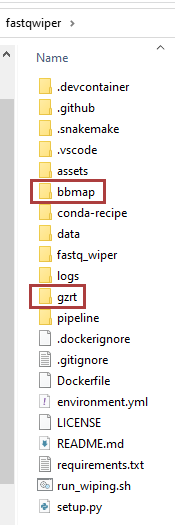
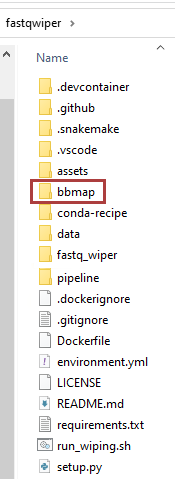
Fixed README.md

Changed region(s): [[0.0, 0.0, 1.0, 0.9937], [0.0, 0.9061, 0.0857, 1.0], [0.0, 0.1754, 0.0857, 0.2046]]

diff --git a/README.md b/README.md
@@ -17,9 +17,9 @@
 
 
 ## USAGE
-- <u>**Case 1**</u>. You have one or a couple (R1&R2) of **computer readable** FASTQ files which contain pesky, unformatted, uncompliant lines: Use <u>FastWiper only</u> to clean them;
-- <u>**Case 2**</u>. You have one or a couple (R1&R2) of **computer readable** FASTQ files that you want to drop unpaired reads from or fix reads interleaving: Use the <u>FastqWiper's Snakemake workflows</u>;
-- <u>**Case 3**</u>. You have one `fastq.gz` file or a couple (R1&R2) of `fastq.gz` files which are corrupted and you want to recover healthy reads and reformat them: Use the <u>FastqWiper's Snakemake workflows</u>;
+- **Case 1**. You have one or a couple (R1&R2) of **computer readable** FASTQ files which contain pesky, unformatted, uncompliant lines: Use *FastWiper* to clean them;
+- **Case 2**. You have one or a couple (R1&R2) of **computer readable** FASTQ files that you want to drop unpaired reads from or fix reads interleaving: Use the FastqWiper's *Snakemake workflows*;
+- **Case 3**. You have one `fastq.gz` file or a couple (R1&R2) of `fastq.gz` files which are corrupted and you want to recover healthy reads and reformat them: Use the FastqWiper's *Snakemake workflows*;
 
 
 ## Installation
@@ -112,7 +112,7 @@ cd fastqwiper
 ```
 
 It contains, in particular, a folder `data` containing the fastq files to be processed, a folder `pipeline` containing the released pipelines and a folder `fastq_wiper` with the source files of `FastqWiper`. <br/>
-Input files to be processed should be copied into the **data** folder. All software packages not fetched from `Conda` and used by the pipelines should be copied, even if it is not strictly mandatory, in the root directory of the cloned repository. 
+Input files to be processed should be copied into the **data** folder.
 
 Currently, to run the `FastqWiper` pipelines, the following packages need to be installed manually:
 
@@ -121,13 +121,13 @@ Currently, to run the `FastqWiper` pipelines, the following packages need to be 
 
 [BBTools](https://jgi.doe.gov/data-and-tools/software-tools/bbtools/) (install [instructions](https://jgi.doe.gov/data-and-tools/software-tools/bbtools/bb-tools-user-guide/installation-guide/))
 
-Both packages need to be downloaded and installed in the root folder of FastqWiper, as the image below
+If installed from source, `gzrt` scripts need to be put on PATH. `bbmap` must be installed in the root folder of FastqWiper, as the image below
 
 ![FastqWiper folder yierarchy](assets/hierarchy.png)
 
 ### Commands:
 Copy the fastq files you want to fix in the `data` folder.
-**N.b.**: In all commands above, you will pass to the workflow the name of the sample to be analyzed through the config argument: `sample_name`. Remember that your fastq files' names must finish with `_R1.fastq.gz` and `_R2.fastq.gz`, for paired fastq files, and with `.fastq.gz`, for individual fastq files, and, therefore, the text to be assigned to the variable `sample_name` must be everything <u>before</u> them. E.g., if your files are `my_sample_R1.fastq.gz` and `my_sample_Re.fastq.gz`, then `--config sample_name=my_sample`.
+**N.b.**: In all commands above, you will pass to the workflow the name of the sample to be analyzed through the config argument: `sample_name`. Remember that your fastq files' names must finish with `_R1.fastq.gz` and `_R2.fastq.gz`, for paired fastq files, and with `.fastq.gz`, for individual fastq files, and, therefore, the text to be assigned to the variable `sample_name` must be everything <u>before</u> them. E.g., if your files are `my_sample_R1.fastq.gz` and `my_sample_R2.fastq.gz`, then `--config sample_name=my_sample`.
 
 #### Paired-end files
 
@@ -142,7 +142,7 @@ Copy the fastq files you want to fix in the `data` folder.
 `snakemake --config sample_name=my_sample -s pipeline/fix_wipe_single_reads_sequential.smk --use-conda --cores 2`
 
 Fixed files will be copied in the `data` folder and will be suffixed with the string `_fixed_wiped_paired_interleaving`.
-We remind that the `fix_wipe_pairs_reads.smk` pipeline performs the following actions:
+We remind that the `fix_wipe_pairs_reads_sequential.smk` and `fix_wipe_pairs_reads_parallel.smk` pipelines perform the following actions:
 - execute `gzrt` on corrupted fastq.gz files (i.e., that cannot be unzipped because of errors) and recover readable reads;
 - execute `fastqwiper` on recovered reads to make them compliant with the FASTQ format (source: [Wipipedia](https://en.wikipedia.org/wiki/FASTQ_format))
 - execute `Trimmomatic` on wiped reads to remove residual unpaired reads
@@ -158,8 +158,7 @@ We remind that the `fix_wipe_pairs_reads.smk` pipeline performs the following ac
 `snakemake --config sample_name=my_sample -s pipeline/fix_wipe_single_reads_sequential.smk --dag | dot -Tpdf > dag.pdf`<br />
 <img src="https://github.com/mazzalab/fastqwiper/blob/main/pipeline/fix_wipe_single_reads.png?raw=true" width="200">
 
-- **Run the pipeline** (n.b., during the first execution, Snakemake will download and install some required remote 
-  packages and may take longer). The number of computing cores can be tuned accordingly:<br />
+- **Run the pipeline** (n.b., The number of computing cores can be tuned accordingly):<br />
 `snakemake --config sample_name=my_sample -s pipeline/fix_wipe_single_reads_sequential.smk --use-conda --cores 2`
 
 # Author
